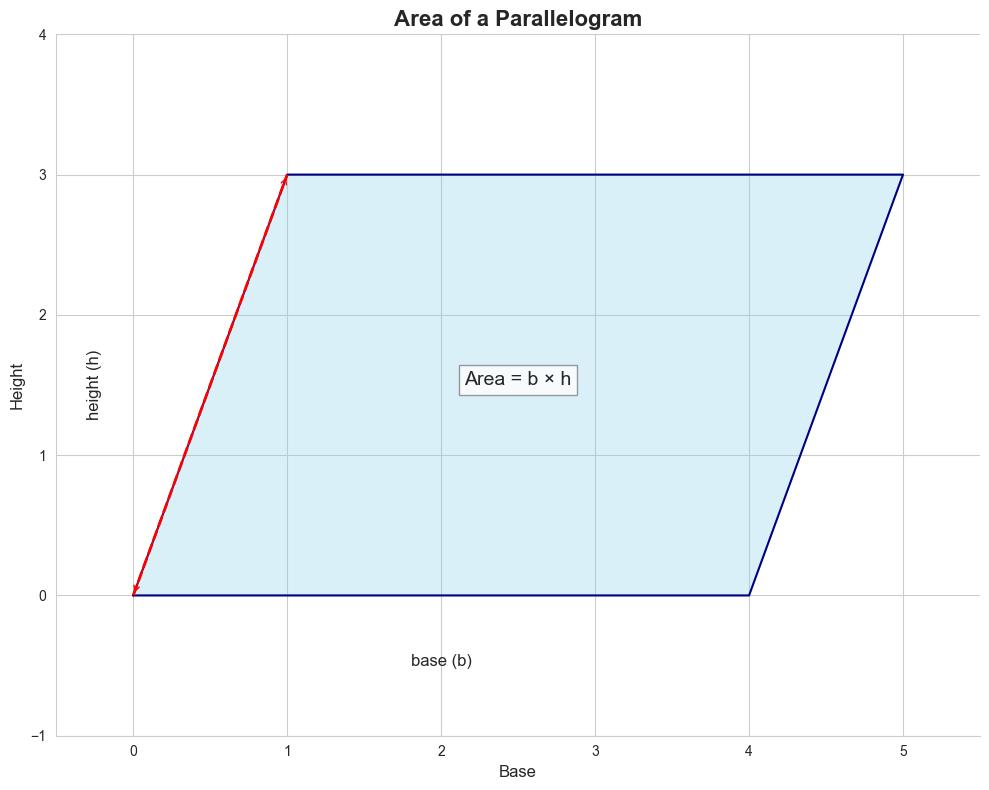
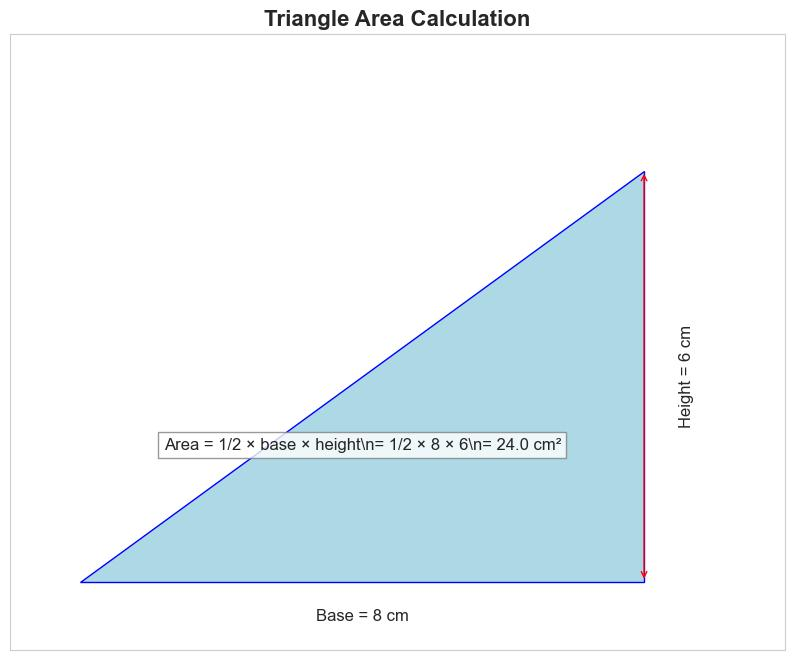
added

diff --git a/main.py b/main.py
@@ -1,44 +1,40 @@
-import numpy as np
 import matplotlib.pyplot as plt
 import seaborn as sns
+import numpy as np
+from matplotlib.patches import Polygon
 
 # Set up the plot
 plt.figure(figsize=(10, 8))
 sns.set_style("whitegrid")
 
-# Create the parallelogram
-x = [0, 4, 5, 1]
-y = [0, 0, 3, 3]
+# Create the triangle
+base = 8
+height = 6
+triangle = Polygon([(0, 0), (base, 0), (base, height)], closed=True, facecolor='lightblue', edgecolor='blue')
 
-# Plot the parallelogram
-plt.fill(x, y, alpha=0.3, color='skyblue')
-plt.plot(x + [x[0]], y + [y[0]], color='navy')
-
-# Add height line
-plt.plot([0, 1], [0, 3], color='red', linestyle='--', linewidth=2)
+# Set up the axes
+ax = plt.gca()
+ax.add_patch(triangle)
+ax.set_xlim(-1, 10)
+ax.set_ylim(-1, 8)
 
 # Add labels and annotations
-plt.text(2, -0.5, 'base (b)', fontsize=12, ha='center')
-plt.text(-0.3, 1.5, 'height (h)', fontsize=12, va='center', rotation=90)
-plt.text(2.5, 1.5, 'Area = b \u00d7 h', fontsize=14, ha='center', bbox=dict(facecolor='white', edgecolor='gray', alpha=0.8))
+ax.text(4, -0.5, f'Base = {base} cm', ha='center', va='center', fontsize=12)
+ax.text(8.5, 3, f'Height = {height} cm', ha='left', va='center', fontsize=12, rotation=90)
+ax.text(4, 2, f'Area = 1/2 \u00d7 base \u00d7 height\\n= 1/2 \u00d7 {base} \u00d7 {height}\\n= {base*height/2} cm\u00b2',
+        ha='center', va='center', fontsize=12, bbox=dict(facecolor='white', edgecolor='gray', alpha=0.8))
 
 # Add arrow for height
-plt.annotate('', xy=(1, 3), xytext=(0, 0), arrowprops=dict(arrowstyle='<->', color='red'))
-
-# Set axis limits and labels
-plt.xlim(-0.5, 5.5)
-plt.ylim(-1, 4)
-plt.xlabel('Base', fontsize=12)
-plt.ylabel('Height', fontsize=12)
+ax.annotate('', xy=(base, height), xytext=(base, 0), arrowprops=dict(arrowstyle='<->', color='red'))
 
 # Set title
-plt.title('Area of a Parallelogram', fontsize=16, fontweight='bold')
+plt.title('Triangle Area Calculation', fontsize=16, fontweight='bold')
 
-# Remove top and right spines
-sns.despine()
+# Remove axis ticks
+ax.set_xticks([])
+ax.set_yticks([])
 
-# Adjust layout and save the image
-plt.tight_layout()
+# Save the plot
 plt.savefig('image.jpg', dpi=100, bbox_inches='tight')
 plt.close()
 
